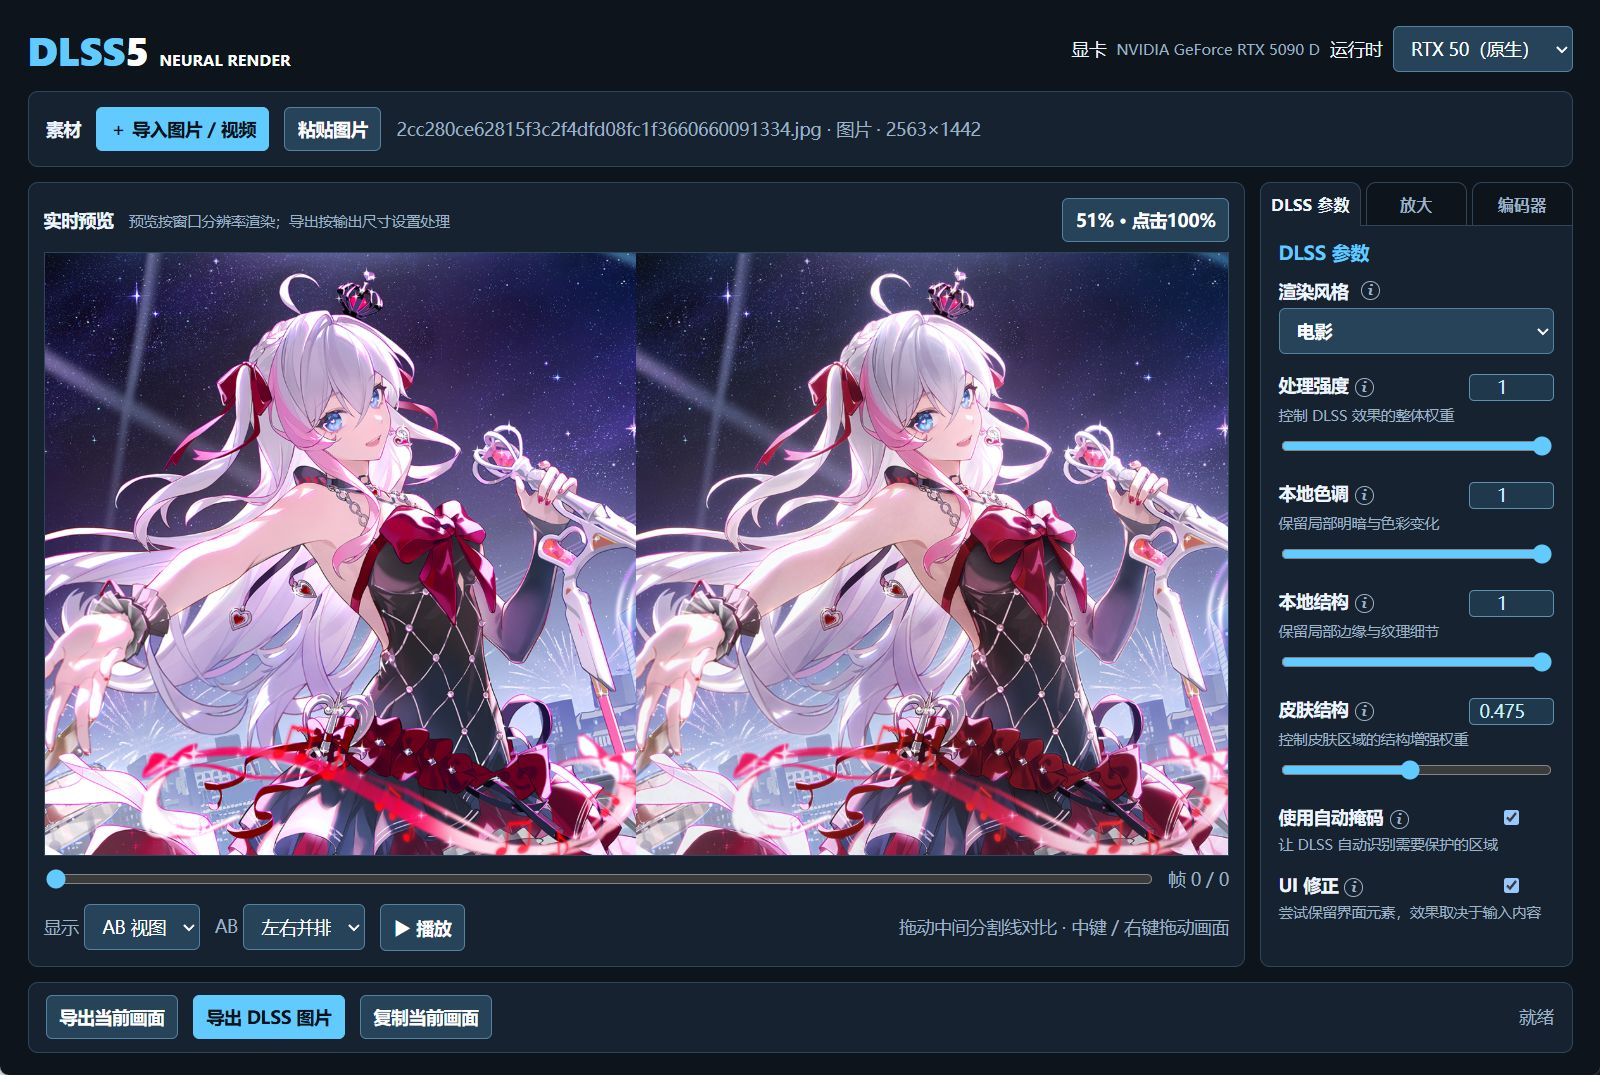
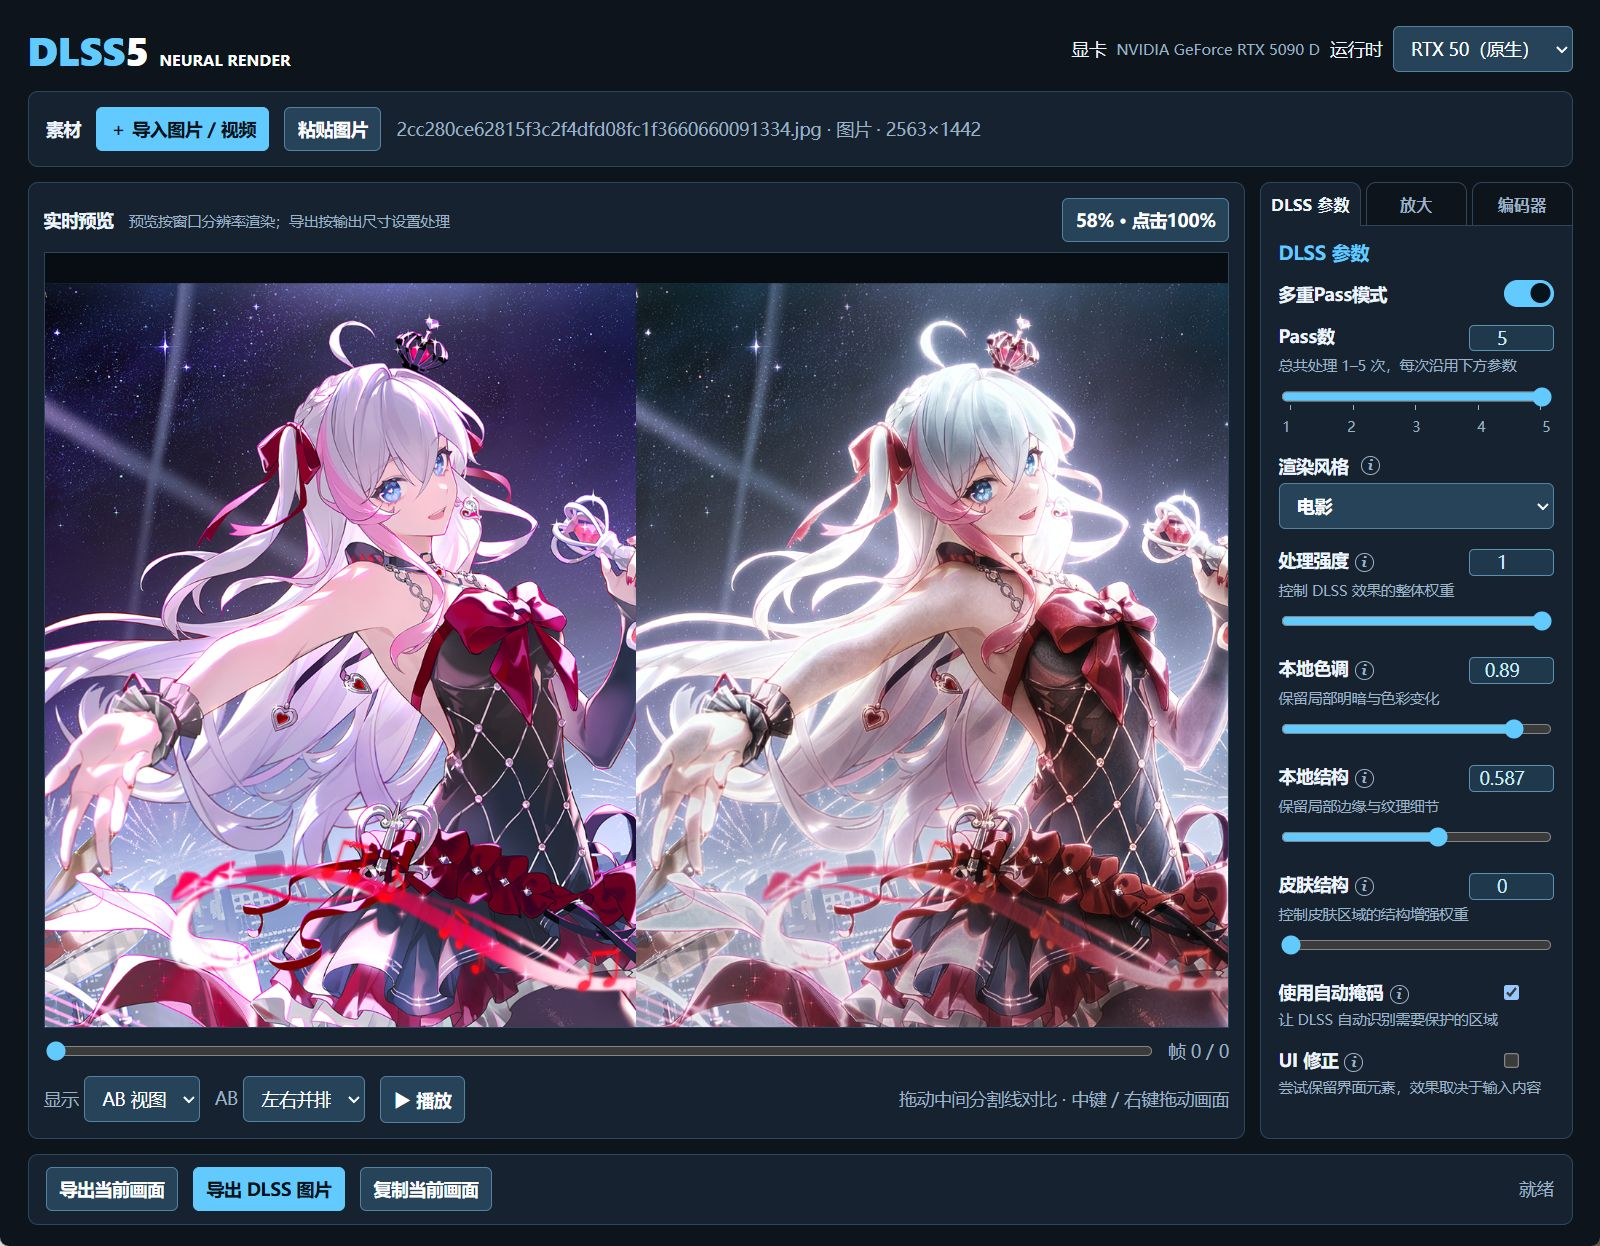
release: bump version to v0.1.4

diff --git a/ui/app.js b/ui/app.js
@@ -1,6 +1,11 @@
 const invoke = window.__TAURI__.core.invoke;
 const $ = id => document.getElementById(id);
-const PREVIEW_MAX_SIDE = 2160;
+const DEFAULT_RENDER_SETTINGS = { style:2, skinStructure:0.1, useAutoMask:true };
+$('style').value = DEFAULT_RENDER_SETTINGS.style;
+$('skin').value = $('skin-num').value = DEFAULT_RENDER_SETTINGS.skinStructure;
+$('auto-mask').checked = DEFAULT_RENDER_SETTINGS.useAutoMask;
+const PREVIEW_MAX_SIDE = 4520;
+$('out-width').parentElement.title = `自定义输出分辨率；预览横竖任一单边最高 ${PREVIEW_MAX_SIDE}，导出按此尺寸处理`;
 let runtimeReady = Promise.resolve();
 const state = { path:null, sourcePath:null, kind:null, info:null, sourceData:null, originalUrl:null, processedUrl:null, loadedFrame:-1, zoom:1, fit:1, panX:0, panY:0, splitX:null, dragging:null, request:0, busy:false };
 const stage = $('stage'), preview = $('preview'), originalPreview = $('original-preview'), originalMask = $('original-mask'), abView = $('ab-view');

diff --git a/src-tauri/src/main.rs b/src-tauri/src/main.rs
@@ -26,7 +26,7 @@ use tauri::{ipc::Response, Manager};
 const CREATE_NO_WINDOW: u32 = 0x0800_0000;
 const PREVIEW_CACHE_FRAMES: usize = 12;
 const SEQUENTIAL_DECODE_LIMIT: u32 = 90;
-const MAX_PREVIEW_SIDE: u32 = 2160;
+const MAX_PREVIEW_SIDE: u32 = 4520;
 
 type InitFn = unsafe extern "C" fn(i32, i32, i32, *const u16, *const u16) -> i32;
 type CreateFn = unsafe extern "C" fn(i32, i32, i32) -> i32;
@@ -62,12 +62,12 @@ impl Default for RenderSettings {
         Self {
             multi_pass: false,
             pass_count: 2,
-            style: 0,
+            style: 2,
             intensity: 1.0,
             local_tone: 1.0,
             local_struct: 1.0,
-            skin_structure: 1.0,
-            use_auto_mask: false,
+            skin_structure: 0.1,
+            use_auto_mask: true,
             ui_correction: false,
             output_view: 0,
             output_mix: 1.0,

diff --git a/README.md b/README.md
@@ -44,7 +44,7 @@ PowerShell / CMD 的代码页，并会自动固定工作目录，确保程序能
   缓存到程序目录的 `Temp` 文件夹，之后按视频轨逐帧预览、播放和导出。
 - 视频预览使用常驻的顺序解码器和最近帧缓存；播放来不及处理时会主动跳帧追赶时间线，
   不再为每一帧重复启动 FFmpeg。所有 FFmpeg / FFprobe 子进程均在后台静默运行。
-- 轻量预览最长边限制为 2160 像素，以支持 2160P 预览并控制内存占用；普通图片和视频
+- 轻量预览横竖任一单边最高允许 4520 像素，以保留更高分辨率的预览；普通图片和视频
   导出按素材栏设置的输出分辨率处理（默认原始尺寸）。
 - 素材栏可以自定义输出长宽，或使用 X1 / X2 / X4 按钮按原始尺寸的倍数快速设置。
 - 右侧设置分为三个标签页：DLSS 参数、放大、编码器。
@@ -53,6 +53,8 @@ PowerShell / CMD 的代码页，并会自动固定工作目录，确保程序能
   再过一次 DLSS；每遍复用下方的风格、强度、色调、结构、皮肤结构、自动掩码及 UI 修正参数。
   对图片、剪贴板图片和视频的预览及 DLSS 输出生效，放大步骤只执行一次。次数越多处理越慢；
   多 Pass 会在每遍处理前重置时序历史，避免不同处理阶段相互干扰。
+- **多重 Pass 的噪波限制：** 多重 Pass 可能显著增加结果噪波。开启放大功能可配合减缓，
+  但不能完全消除；离线版仅使用参考图像作为输入源，缺少额外的实时信息，因此噪波增加不可避免。
 - 放大功能依赖 RTX VSR（NVIDIA 网络超分）：需 RTX 20 系及以上显卡、550+ 驱动，程序目录需带
   `nvngx_vsr.dll` 与 `rtx_vsr_host.dll`。启用后 X2 / X4 等放大由 GPU 网络完成再交给 DLSS 做细节增强，
   对比视图中的“原图”侧以最近邻放大展示原始像素；RTX VSR 不可用时放大整体禁用（输出不能超过
